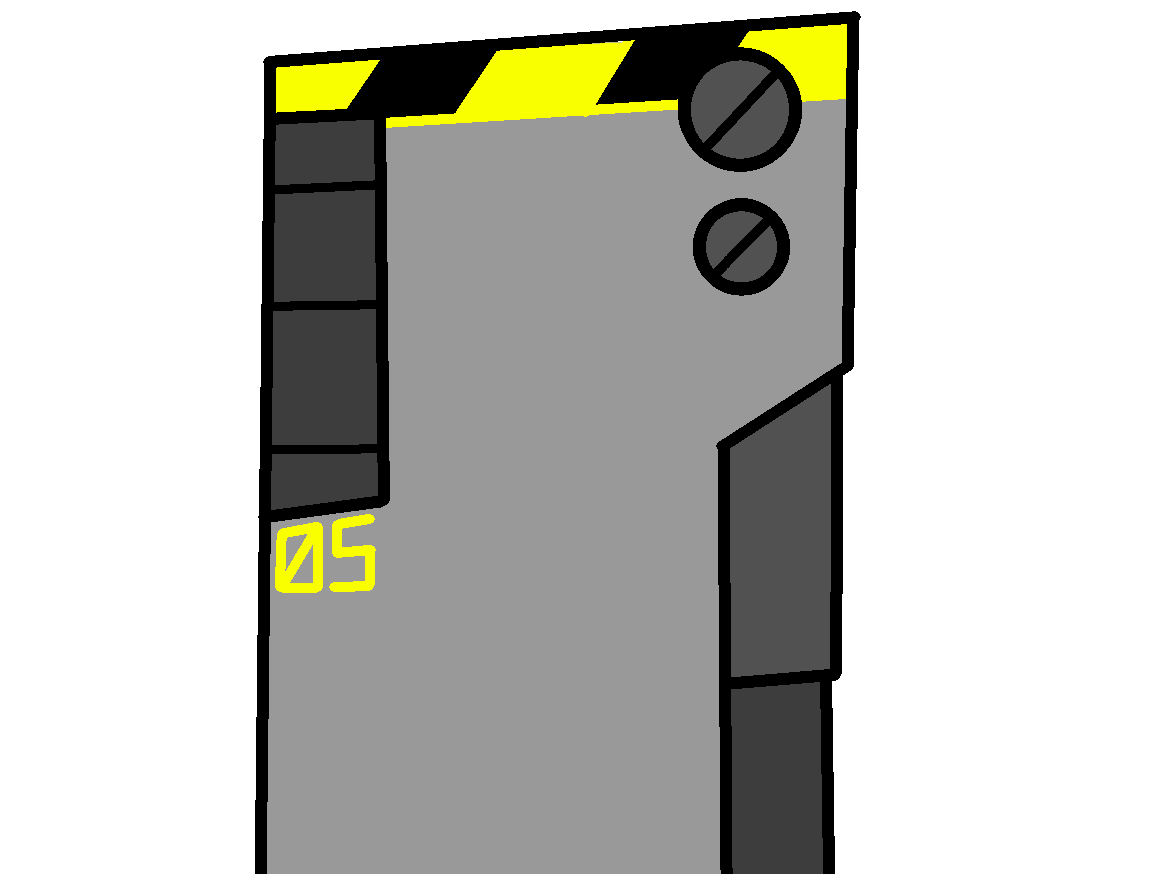
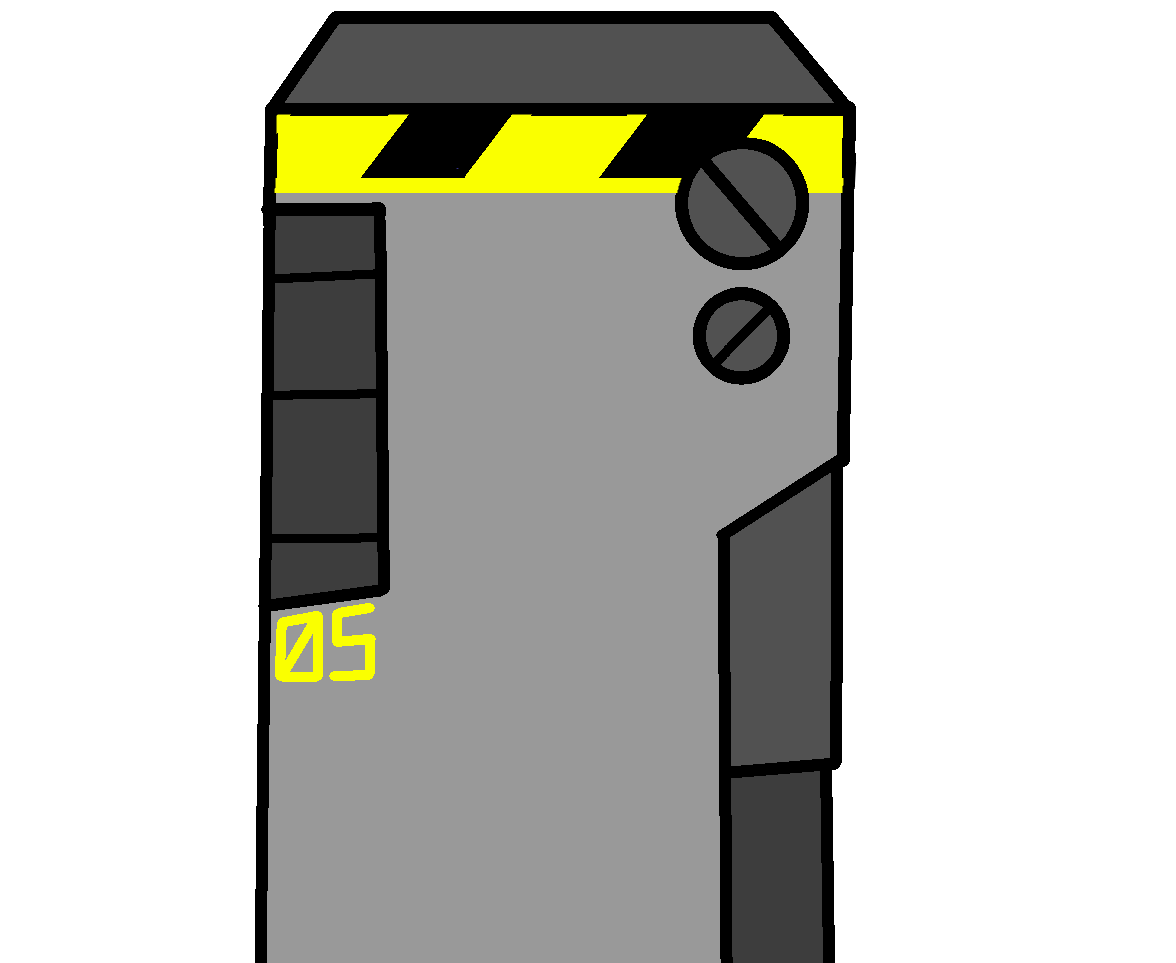
added new sprite, changed platform

diff --git a/sketch.js b/sketch.js
@@ -162,6 +162,8 @@ shard2I = loadAnimation("images/shard2.png")
 //saw
     sawA = loadAnimation("images/Saw1.png","images/Saw2.png","images/Saw3.png","images/Saw4.png")
 
+    instructionsA = loadAnimation("images/directions1.png","images/directions2.png")
+    instructionsA.frameDelay = 100
 
     //SOUND
 
@@ -265,12 +267,18 @@ function setup(){
    bounceboxE6.visible = false
 
     //ship
+    instructions = createSprite(400,140,10,10)
+    instructions.scale = 0.45
+    instructions.addAnimation("sign1",instructionsA)
     createPlatform(800/2 - 600,700-100, 0.5)
     door = createSprite(800/2 - 300,700/2)
     door.addImage(doorImg)
     door.scale = 0.8
     door.setCollider("rectangle", 50,0,200,1000)
     createPlatform(800/2,700-100, 0.5)
+
+    
+   // instructions.changeAnimation(instructionsA,"sign1")
     createPlatform2(800/2 - 1500,700-100, 0.1)
     createPlatform2(800/2 - 1800,700-100, 0.1)
     createPlatform2(800/2 - 2100,700-100, 0.1)

diff --git a/index.html b/index.html
@@ -11,7 +11,6 @@
 
   </head>
   <body>
-   
     <a href = "https://miru.page/games.html">BACK</a>
 
 </body></html>
